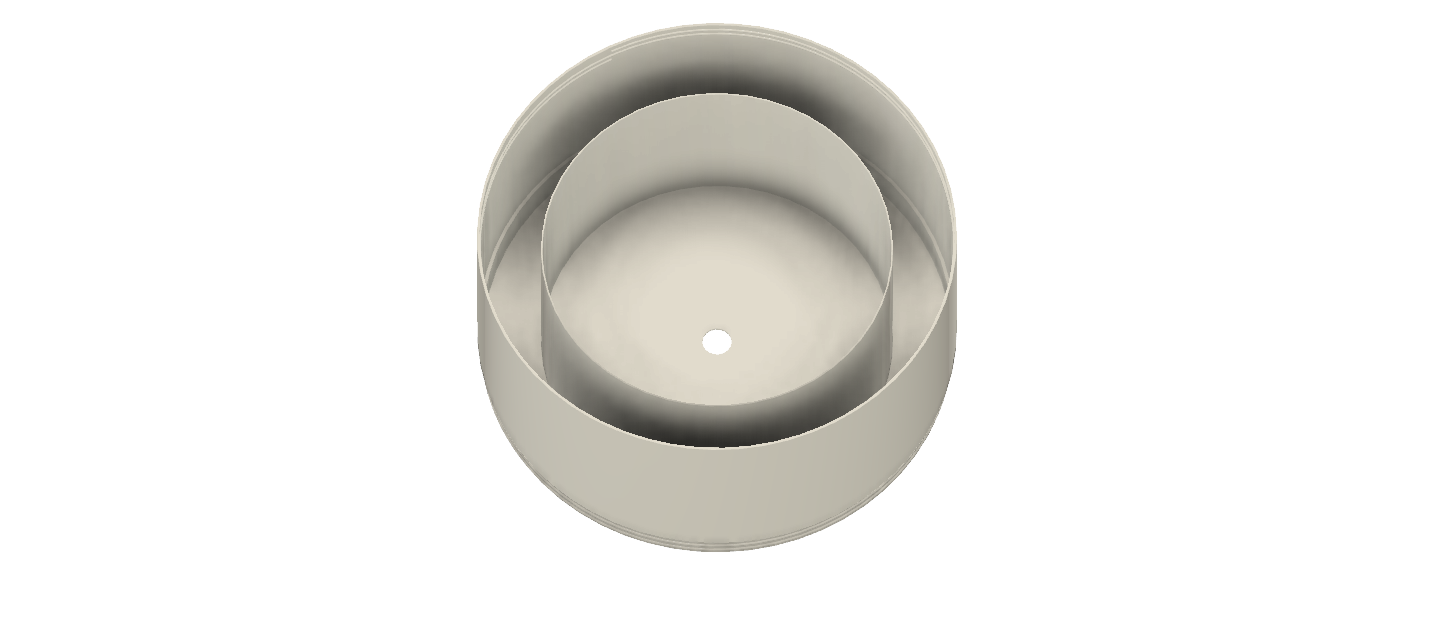
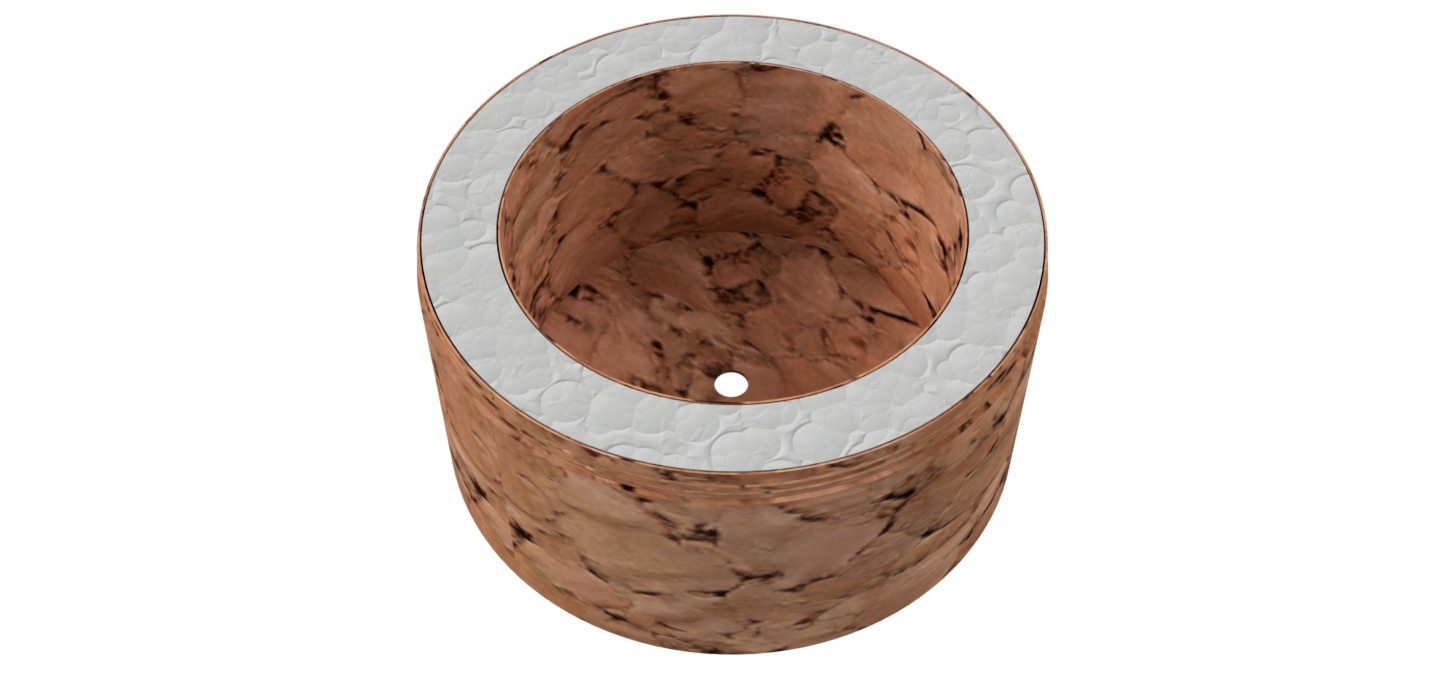
Version 2.0

diff --git a/README.md b/README.md
@@ -25,20 +25,27 @@ The proposed design has 5 blocks:
 
 ![Hash Box](src/images/hasf.png)
 
+### Section View
+![Hash Box](src/images/HASF-SectionView.png)
+
 ## Heat and Cold resistant
 Bees are very sensitive to changes in temperature, so essential to a stable environment. In nature, they use tree hollows that have excellent thermal resistance. To guarantee this thermal comfort, all blocks have a 2 cm layer that must be filled with Styrofoam. Other insulators can also be used. As the walls have a thickness of 0.1 cm to give greater rigidity, a mixture of cement with styrofoam can be used.
+The standards beehives used in beekeeping are built with the aim to maximise the honey production without really considering the comfort of the bees. These shelters which are very far to the natural habitat of the bees, weaken them by disturbing their metabolism. The cylindrical structure is the most efficient to save the warmth.
 
 ## Durable Materials
 For testing purposes, 3D models are being printed with different types of material such as PLA, ABS, PET-G among others. The future goal is to make molds for the injection of recyclable plastic.
+Perhaps more sustainable and better alternative for bees would be production using agglomerated cork. This material will be evaluated in the future as an alternative to plastic.
 
 ## Portable
-The hive needs to be portable, allowing easy handling and transportation when necessary. The lid has a handle for loading and the base has a threaded entrance to close the hive during transport
+The hive needs to be portable, allowing easy handling and transportation when necessary.
 
 ## Easy to Operate
 Because it is modular and threadable, you can mix modules, increase the number of honey chamber, etc. Another positive point is the ease of collecting honey due to the fact that the jars have a pattern
+Based on some studies found on the Internet and used in Malaysia, Australia and Brazil, I developed a honeycomb that has a hexagonal structure with a diameter of 1.6 cm and height of 1.6 cm to standardize the construction of honey pots thus facilitating the its extraction. This structure can be created in plastic or using beeswax with silicone mold.
+The idea is to test with Jataí bees, but it can be used with other bees and you may need to change the dimensions. The current size was based on the following document [Efeito da padronização da altura de melgueiras para abelha Jataí](http://apacame.org.br/site/revista/mensagem-doce-n-145-marco-de-2018/artigo-5/?fbclid=IwAR1WRlwDaLafMQsi6imAG6ThI1SdjlGxfZeDl4RUsPbpFZx_EBIDRmaJwyM)
 
 ## Low Cost
-The idea is to produce units in non-toxic and biodegradable plastic at low cost
+The idea is to produce units in non-toxic and biodegradable plastic at low cost.
 
 # Design Explanation
 
@@ -54,24 +61,40 @@ There is a space of 20 mm between the external and internal wall for placing an 
 ![Hash Nest](src/images/HASF-Nest.png)
 
 ## Over-Nest
-it follows the same pattern of the nest with the difference that its base has a lower opening in the form of a square of 100 mm x 100 mm and 4 side entrances for the bees. The goal is that the bees also produce the honeycombs in the semen to facilitate the process of dividing the hive.
+it follows the same pattern of the nest with the difference that its base has a lower opening in the form of a square of 80 mm x 80 mm and 4 side entrances for the bees. The goal is that the bees also produce the honeycombs in the semen to facilitate the process of dividing the hive.
 ![Hash Overnest](src/images/HASF-Overnest.png)
 
 ## Honey Chamber
-It has honeycombs with a capacity to store approximately 7 ml of honey. The objective is to reduce the work of bees in the production of honeycombs or jars of honey and facilitate the extraction of honey.
+It has honeycombs with a capacity to store approximately 5 ml of honey. The objective is to reduce the work of bees in the production of honeycombs or jars of honey and facilitate the extraction of honey.
 Perhaps according to the type of bee, the honey pots need to have their size reduced or increased, so I think in the future that the honeycombs are not fixed, thus allowing to change the sizes as necessary.
 Another possibility would be to produce jars of honey directly from beeswax using a silicone form.
 Multiple honey chambers can be added one above the other to create a larger space for honey production
 ![Hash Base](src/images/HASF-HoneyChamber.png)
+![Hash Base](src/images/HASF-HoneyChamberwithHoneycomb.png)
+
+### Honeycomb Mold
+It is a plastic piece for creating a silicone mold. With the silicone mold the honeycombs could be created from melted beeswax which would create a pattern for the bees facilitating the extraction of honey.
+To make the silicone mold it is necessary to use liquid silicone, add the catalyst according to the manufacturer's instructions and pour it into the mold. When it is cured approximately 2 hours later, the mold can be removed from the mold.
+![Hash Base](src/images/HASF-HoneycombMold.png)
 
 ## Cover
 It must be filled with insulating material to close the hive
 ![Hash Base](src/images/HASF-Cover.png)
 
 # Next Steps
-- [ ] add electronic monitoring of temperature, humidity, etc.
-- [ ] improve design based on suggestions.
-- [ ] develop beeswax honeycombs.
+- [ ] add electronic monitoring of temperature, humidity, etc;
+- [ ] Create a honey driller and extractor;
+- [x] improve design based on suggestions (version 2.0);
+- [x] develop beeswax honeycombs (version 2.0);
+
+# Version Changes
+- 1.0 Initial version
+- 2.0 Second release (21/05/2021)
+  - Changed thread from inside to outside to prevent water from entering the thread
+  - Built the inlet pipe
+  - Changed the dimensions of the honey chamber based on the document [Efeito da padronização da altura de melgueiras para abelha Jataí](http://apacame.org.br/site/revista/mensagem-doce-n-145-marco-de-2018/artigo-5/?fbclid=IwAR1WRlwDaLafMQsi6imAG6ThI1SdjlGxfZeDl4RUsPbpFZx_EBIDRmaJwyM) for tests with Jataí bee
+  - Creation of a silicone mold for the construction of beeswax honeycombs
+  - Improved images
 
 # More Information
 - [Wiki](https://github.com/victorhalla/hasf/wiki)
